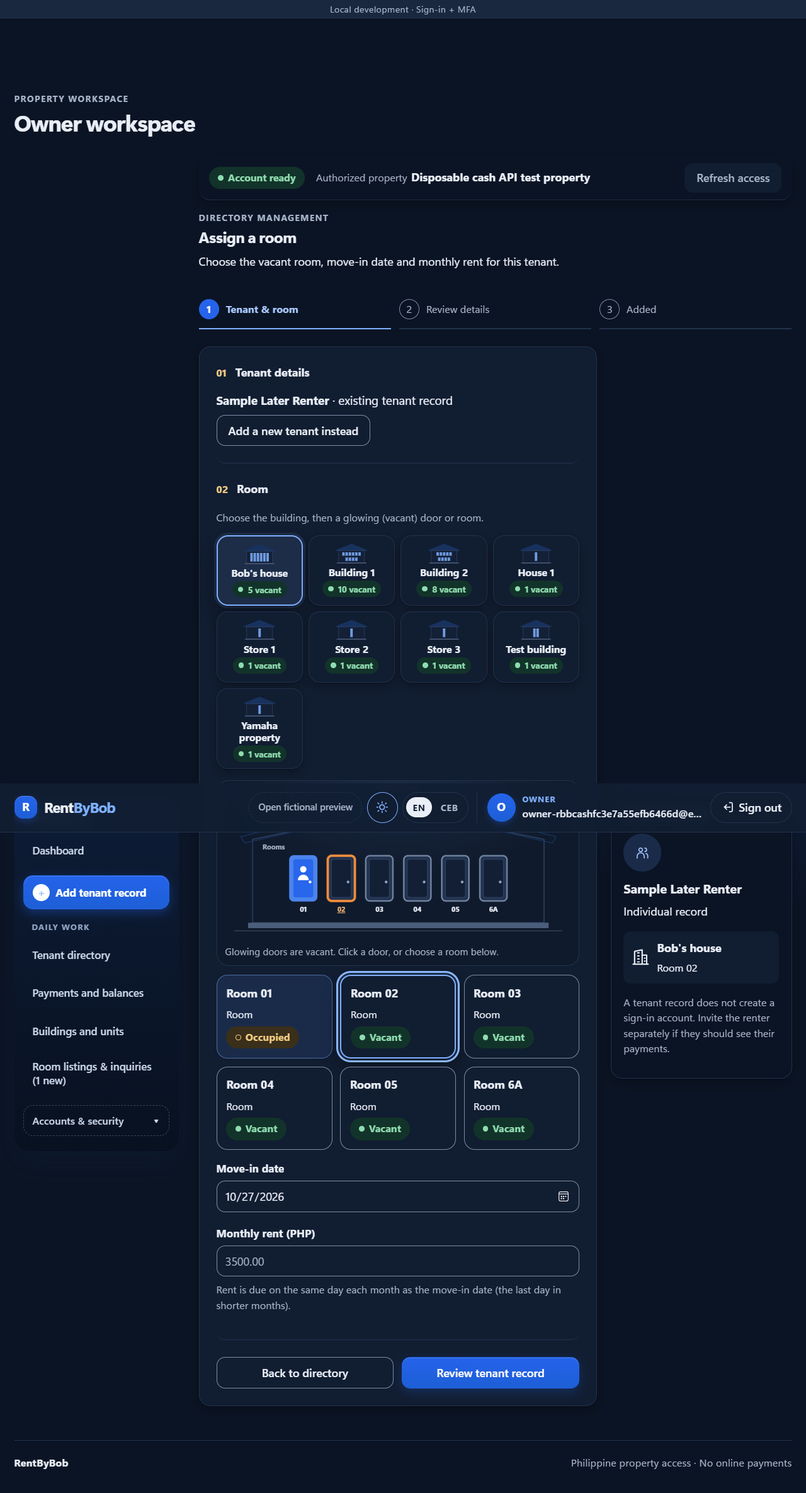
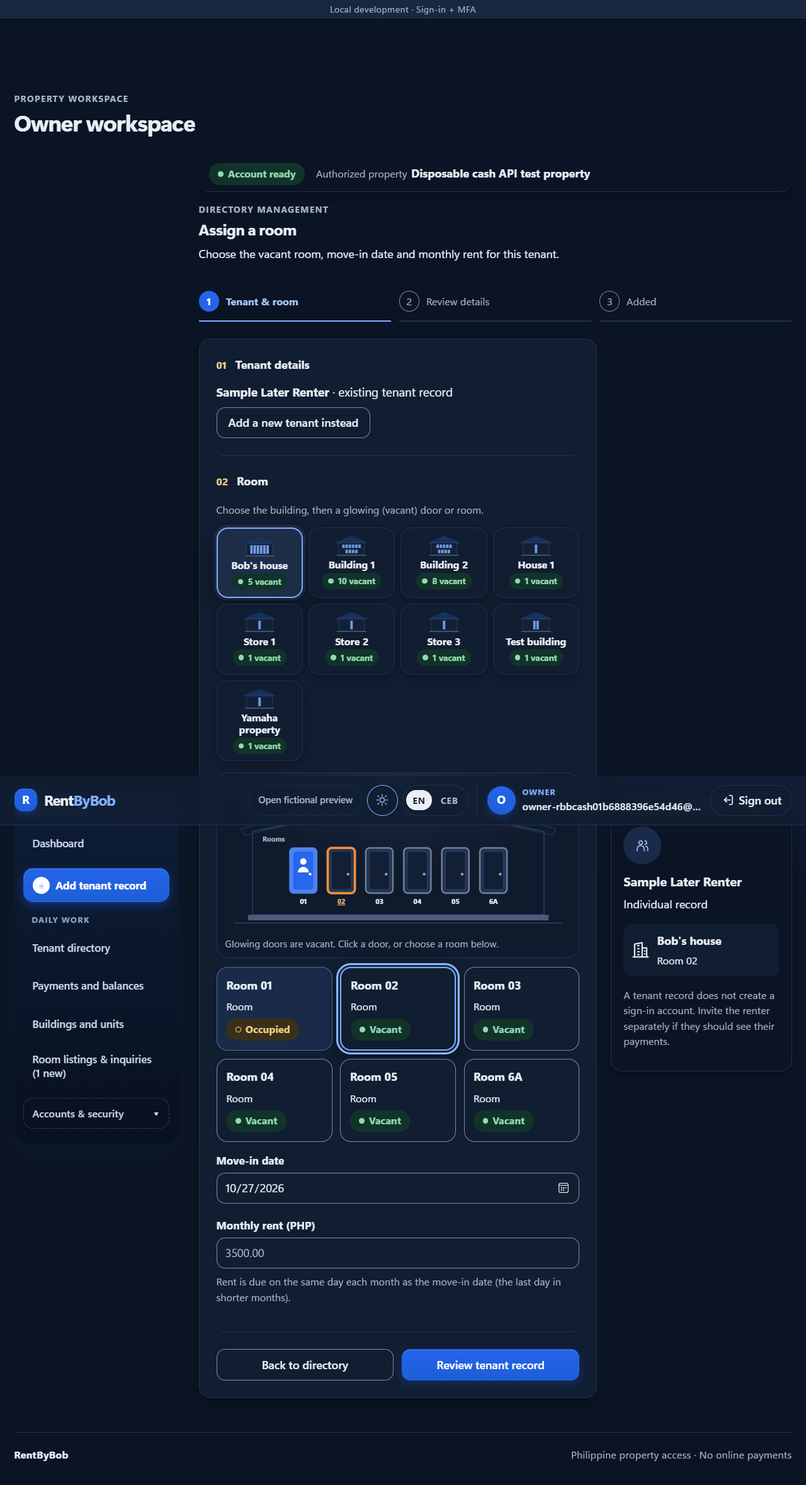
Polish: auto-refreshing Payments, compact room listings, cleaner PDF, verifier by email, plain wording

diff --git a/src/access/SavedPayments.tsx b/src/access/SavedPayments.tsx
@@ -39,6 +39,7 @@ export function SavedPayments({ propertyId, propertyName, tenants, owner, userId
  const request = useRef<{key:string;id:string}|null>(null), sending = useRef(false)
  const [autoRent,setAutoRent] = useState<boolean|null>(null)
  const [newAgreementTenant,setNewAgreementTenant] = useState('')
+ const [verifierEmail,setVerifierEmail] = useState(''), [verifierMatch,setVerifierMatch] = useState<{id:string;email:string}|null>(null)
  // Unused advance credit per agreement (202610270010); empty when none or before the update is applied.
  const [credits,setCredits] = useState<Record<string,string>>({})
  const refresh = useCallback(async () => {
@@ -108,6 +109,8 @@ export function SavedPayments({ propertyId, propertyName, tenants, owner, userId
  },[data])
  // Reload whenever Payments is opened, so tenants and rooms added elsewhere appear without pressing Refresh.
  useEffect(()=>{ if(active) void refresh() },[active,refresh])
+ // While open, reload every 30 seconds so confirmations by other staff appear (unsaved entries are kept).
+ useEffect(()=>{ if(!active) return; const timer=window.setInterval(()=>{ if(!sending.current) void refresh() },30000); return ()=>window.clearInterval(timer) },[active,refresh])
  useEffect(()=>{ if(entry||draft||review) stepHeading.current?.focus() },[entry===null,draft===null,review===null])
 
  const agreement=data?.agreements.find(a=>a.id===selected)
@@ -136,7 +139,7 @@ export function SavedPayments({ propertyId, propertyName, tenants, owner, userId
  const confirmCard=review&&<section className="card cash-confirmation-review" aria-labelledby="cash-confirm-heading"><h3 id="cash-confirm-heading" ref={stepHeading} tabIndex={-1}>{tr('Confirm cash received?','Kumpirmaha ang nadawat nga kwarta?')}</h3><p><strong>{decimalPesos(review.amount)}</strong> {tr('received by','gidawat ni')} {review.collector} {tr('on','niadtong')} {dateText(review.received_on)}.</p><p>{tr('Confirm only after checking that the cash was received. It will cover the oldest unpaid rent first and issue a permanent acknowledgment.','Kumpirmaha lang human masusi nga nadawat ang kwarta. Ibutang kini una sa pinakadaan nga wala mabayring abang ug maghimo og permanenteng resibo.')}</p><div className="person-actions"><Button disabled={busy} className="primary" onClick={async()=>{const result=await mutate('confirm_rent_cash',{p_cash_id:review.id},false);if(result){setReview(null);setMessage(tr('Cash confirmed. The balance is updated.','Nakumpirma ang kwarta. Na-update ang balanse.'));setReceipt(result as CashAcknowledgmentData)}}}>{tr('Confirm and issue acknowledgment','Kumpirmaha ug paghimo og resibo')}</Button><Button disabled={busy} onClick={()=>setReview(null)}>{tr('Cancel','Kansela')}</Button></div></section>
 
  return <section className="payments-preview simple-payments" aria-labelledby="payments-heading">
- <div className="section-heading"><div><p className="eyebrow">{tr('RENT RECORDS','REKORD SA ABANG')}</p><h2 id="payments-heading">{t.paymentRecords}</h2><p>{tr('Find a tenant, record cash, then confirm it.','Pangitaa ang nag-abang, irekord ang kwarta, unya kumpirmaha.')}</p></div><Button className="secondary-button" disabled={busy} onClick={()=>void refresh()}>{tr('Refresh','I-refresh')}</Button></div>
+ <div className="section-heading"><div><p className="eyebrow">{tr('RENT RECORDS','REKORD SA ABANG')}</p><h2 id="payments-heading">{t.paymentRecords}</h2><p>{tr('Find a tenant, record cash, then confirm it.','Pangitaa ang nag-abang, irekord ang kwarta, unya kumpirmaha.')}</p></div></div>
  {error&&<p className="notice notice--error" role="alert">{error}</p>}{message&&<p className="notice" role="status">{message}</p>}
  {!data&&!error&&<LoadingSkeleton label={tr('Loading saved records…','Gikarga ang mga rekord…')} rows={4} />}
  {data&&<>
@@ -213,7 +216,7 @@ export function SavedPayments({ propertyId, propertyName, tenants, owner, userId
  </div>
  <section className="card room-rent-setup-card account-panel" role="tabpanel" id="account-panel-setup" aria-labelledby="account-tab-setup" hidden={accountTab!=='setup'}>
   <div className="current-room-rent"><div><span>{tr('Monthly room rent','Binulan nga abang sa kwarto')}</span><strong>{decimalPesos(agreement.rent)}</strong></div><p>{tr('Moved in','Misulod')} {dateText(agreement.move_in)}. {tr('Rent is due on that day each month (the last day in shorter months).','Bayran ang abang niana nga adlaw matag bulan (kataposang adlaw sa mubo nga bulan).')}</p></div>
-  <p className="field-help">{tr('The move-in date and rent are fixed once saved. Changing a saved rent is not available yet; it needs an owner rule for which month the new rent starts.','Dili na mausab ang petsa sa pagsulod ug abang kon na-save na. Dili pa mahimo ang pag-usab sa abang; kinahanglan og lagda sa tag-iya kon unsang bulana magsugod.')}</p>
+  <p className="field-help">{tr('The move-in date and monthly rent stay as agreed. Changing the rent amount is not available in the app yet.','Ang petsa sa pagsulod ug binulan nga abang magpabilin sumala sa kasabutan. Dili pa mausab ang kantidad sa abang sa app.')}</p>
   {!agreement.ended_on&&<details className="card change-room"><summary>{tr('Change room (still renting)','Usba ang kwarto (nag-abang gihapon)')}</summary><p>{tr('Moves this tenant to another vacant room from the date you choose. The same account, monthly rent, due day and balance continue; the room history is kept.','Ibalhin kini nga nag-abang sa laing bakante nga kwarto sugod sa petsa nga imong pilion. Pareho gihapon ang account, binulan nga abang, adlaw sa bayranan ug balanse; gitipigan ang kasaysayan sa kwarto.')}</p><form className="rent-setup" onSubmit={e=>{e.preventDefault();const f=new FormData(e.currentTarget);void mutate('change_agreement_room',{p_agreement_id:agreement.id,p_unit_id:String(f.get('unit')),p_effective:String(f.get('date')),p_reason:String(f.get('reason')).trim()}).then(saved=>{if(saved)setMessage(tr('Room changed. Rent and balance continue on the same account.','Nausab ang kwarto. Padayon ang abang ug balanse sa parehas nga account.'))})}}><label htmlFor="change-room-unit">{tr('New room','Bag-ong kwarto')}</label><select id="change-room-unit" name="unit" required><option value="">{tr('Choose a vacant room','Pagpili og bakante nga kwarto')}</option>{data.units.filter(u=>u.id!==agreement.unit_id&&!data.agreements.some(a=>a.unit_id===u.id&&(!a.ended_on||a.ended_on>=today))).map(u=><option key={u.id} value={u.id}>{data.buildings.find(b=>b.id===u.building_id)?.label} / {u.label}</option>)}</select><label htmlFor="change-room-date">{tr('Moved on','Petsa sa pagbalhin')}</label><input id="change-room-date" name="date" type="date" defaultValue={today} min={agreement.move_in} max={today} required /><label htmlFor="change-room-reason">{tr('Reason (required)','Rason (kinahanglan)')}</label><input id="change-room-reason" name="reason" required maxLength={500} pattern=".*\S.*" placeholder={tr('Example: moved to a bigger room','Pananglitan: nibalhin sa mas dako nga kwarto')} /><Button disabled={busy} className="primary">{tr('Save room change','I-save ang pagbalhin og kwarto')}</Button></form></details>}
   {!agreement.ended_on&&owner&&<details className="card move-out"><summary>{tr('Record move-out','Irekord ang pagbalhin')}</summary><p>{tr('Full months only: the move-out month is charged in full and no rent is added after it. Unpaid rent stays owed. The room becomes free for a new agreement starting the day after.','Tibuok bulan lamang: bayran sa tibuok ang bulan sa pagbalhin ug walay abang nga madugang human niini. Utang gihapon ang wala mabayri. Mahimong bag-ong kasabotan ang kwarto sugod sa sunod nga adlaw.')}</p><form className="rent-setup" onSubmit={e=>{e.preventDefault();const f=new FormData(e.currentTarget);void mutate('end_rental_agreement',{p_agreement_id:agreement.id,p_end_date:String(f.get('end')),p_reason:String(f.get('reason')).trim()})}}><label htmlFor="move-out-date">{tr('Move-out date','Petsa sa pagbalhin')}</label><input id="move-out-date" name="end" type="date" min={agreement.move_in} required /><label htmlFor="move-out-reason">{tr('Reason (required)','Rason (kinahanglan)')}</label><input id="move-out-reason" name="reason" required maxLength={500} pattern=".*\S.*" /><Button disabled={busy} className="primary">{tr('Save move-out','I-save ang pagbalhin')}</Button></form></details>}
  </section>
@@ -255,10 +258,16 @@ export function SavedPayments({ propertyId, propertyName, tenants, owner, userId
    <li><span className={data.charges.length?'readiness-state readiness-state--ready':'readiness-state'}>{data.charges.length?`${data.charges.length} ${tr('saved','na-save')}`:tr('Needs setup','Kinahanglan i-set up')}</span><div><strong>{tr('Monthly rent charges','Mga bayranan sa abang matag bulan')}</strong><p>{data.charges.length?tr('Only saved charges appear in rent balances.','Ang mga bayranan nga na-save lang ang makita sa balanse sa abang.'):tr('No charges are saved; no rent is assumed or generated automatically.','Walay bayranan nga na-save; walay abang nga gihunahuna o awtomatikong gihimo.')}</p></div></li>
    <li><span className="readiness-state">{pendingCash.length+confirmedCount} {tr('records','ka rekord')}</span><div><strong>{tr('Cash status','Kahimtang sa kwarta')}</strong><p>{pendingCash.length} {tr('awaiting confirmation','naghulat og kumpirmasyon')} · {confirmedCount} {tr('confirmed','nakumpirma')}</p></div></li>
   </ul>
-  {!verifierAssigned&&<p className="field-help">{tr('Before assigning a verifier, the owner must independently confirm the existing clerk account ID and confirmed email. Do not guess from a display name.','Sa dili pa mo-assign og tigkumpirma, kumpirmahon una sa tag-iya ang account ID ug kumpirmadong email sa clerk. Ayaw pagtag-an base sa display name.')}</p>}
+  {!verifierAssigned&&<p className="field-help">{tr('Before assigning a verifier, confirm the clerk’s email with them in person. Do not guess from a display name.','Sa dili pa mo-assign og tigkumpirma, kumpirmaha una ang email sa clerk diha kaniya. Ayaw pagtag-an base sa display name.')}</p>}
  </section>
  <details className="card create-agreement"><summary>{tr('Give an existing tenant a room','Hatagi og kwarto ang naa nang nag-abang')}</summary><p>{tr('For tenants already in the directory. New tenants get their room in Add tenant. One responsible tenant per room; the move-in day sets monthly due dates.','Para sa mga naa na sa lista. Ang bag-ong nag-abang makakuha og kwarto sa Idugang ang nag-abang. Usa ka responsable matag kwarto; ang adlaw sa pagsulod maoy basihan sa petsa sa bayranan.')}</p><form className="rent-setup" onSubmit={e=>{e.preventDefault();const f=new FormData(e.currentTarget);if(!String(f.get('tenant'))){setError(tr('Choose the responsible tenant first.','Pilia una ang responsableng nag-abang.'));return};void mutate('create_rental_agreement',{p_tenant_id:String(f.get('tenant')),p_unit_id:String(f.get('unit')),p_move_in:String(f.get('start')),p_rent:String(f.get('rent'))})}}><TenantPicker label={tr('Responsible tenant','Responsableng nag-abang')} name="tenant" tenants={tenants.filter(t=>!t.archived_at&&!t.removed_at&&!data.agreements.some(a=>a.tenant_id===t.id&&(!a.ended_on||a.ended_on>=today)))} value={newAgreementTenant} onChange={setNewAgreementTenant} language={language} /><label htmlFor="agreement-unit">{tr('Room','Kwarto')}</label><select id="agreement-unit" name="unit" required><option value="">{tr('Choose room','Pagpili og kwarto')}</option>{data.units.filter(u=>!data.agreements.some(a=>a.unit_id===u.id&&!a.ended_on)).map(u=><option key={u.id} value={u.id}>{data.buildings.find(b=>b.id===u.building_id)?.label} / {u.label}</option>)}</select><label htmlFor="agreement-start">{tr('Move-in date','Petsa sa pagsulod')}</label><input id="agreement-start" name="start" type="date" required /><label htmlFor="agreement-rent">{tr('Monthly room rent (PHP)','Abang sa kwarto matag bulan (PHP)')}</label><input id="agreement-rent" name="rent" inputMode="decimal" pattern="[0-9]+([.][0-9]{1,2})?" required /><Button disabled={busy}>{tr('Save agreement','I-save ang kasabotan')}</Button></form></details>
- {owner&&<details ref={verifierSetup} className="card"><summary>{tr('Designate an existing clerk as cash verifier','Pagpili og clerk nga mahimong tigkumpirma sa kwarta')}</summary><p>{tr('Select the approved clerk account by its account ID and exact confirmed email. Verify both through trusted account management first. This does not create an account or send email.','Pilia ang giuyonan nga account sa clerk pinaagi sa account ID ug eksaktong kumpirmadong email. Susiha una kini pinaagi sa kasaligan nga pagdumala sa account. Dili kini mohimo og account o mopadala og email.')}</p><form className="rent-setup" onSubmit={e=>{e.preventDefault();const f=new FormData(e.currentTarget);void mutate('assign_cash_verifier',{p_user_id:String(f.get('id')),p_email:String(f.get('email'))},false)}}><label htmlFor="verifier-id">{tr('Existing clerk account ID','Account ID sa clerk')}</label><input id="verifier-id" name="id" required /><label htmlFor="verifier-email">{tr('Confirmed email','Kumpirmadong email')}</label><input id="verifier-email" name="email" type="email" required /><Button disabled={busy}>{tr('Assign cash verifier','I-assign ang tigkumpirma sa kwarta')}</Button></form></details>}
+ {owner&&<details ref={verifierSetup} className="card verifier-setup"><summary>{tr('Designate an existing clerk as cash verifier','Pagpili og clerk nga mahimong tigkumpirma sa kwarta')}</summary><p>{tr('Type the clerk\'s email (confirm it with them first). The app finds their account; check it is the right person, then assign. This does not create an account or send email.','Isulat ang email sa clerk (kumpirmaha una kaniya). Pangitaon sa app ang ilang account; susiha nga husto ang tawo, dayon i-assign. Dili kini mohimo og account o mopadala og email.')}</p>
+  <form className="rent-setup" onSubmit={async e=>{e.preventDefault();setVerifierMatch(null);setError('');const {data:found,error:findError}=await supabase!.rpc('find_account_for_assignment',{p_property_id:propertyId,p_email:verifierEmail.trim()});if(findError){setError(tr('The account could not be looked up. Owner access with the authenticator is required.','Wala makita ang account. Kinahanglan ang access sa tag-iya uban ang authenticator.'));return}const match=found as {id:string;email:string;accepted:boolean;staff_role:string|null}|null;if(!match){setError(tr('No account has this exact email. Check the spelling or invite the clerk first.','Walay account nga ingon ani nga email. Susiha ang spelling o dapita una ang clerk.'));return}if(match.staff_role!=='clerk'||!match.accepted){setError(tr('This account is not an active clerk yet. Give it Clerk access in Accounts & security first.','Dili pa aktibo nga clerk kini nga account. Hatagi una og Clerk nga access sa Account ug kaluwasan.'));return}setVerifierMatch({id:match.id,email:match.email})}}>
+   <label htmlFor="verifier-email">{tr('Clerk\'s email','Email sa clerk')}</label><input id="verifier-email" type="email" required value={verifierEmail} onChange={e=>{setVerifierEmail(e.target.value);setVerifierMatch(null)}} />
+   <Button className="secondary-button" disabled={busy}>{tr('Find clerk','Pangitaa ang clerk')}</Button>
+  </form>
+  {verifierMatch&&<div className="notice" role="status"><p><strong>{verifierMatch.email}</strong> · {tr('active clerk account','aktibo nga clerk')}</p><Button className="primary" disabled={busy} onClick={async()=>{const done=await mutate('assign_cash_verifier',{p_user_id:verifierMatch.id,p_email:verifierMatch.email},false);if(done!==false){setVerifierMatch(null);setMessage(tr('Cash verifier assigned. This clerk can now confirm cash.','Na-assign ang tigkumpirma. Makakumpirma na kini nga clerk sa kwarta.'))}}}>{tr('Assign as cash verifier','I-assign isip tigkumpirma')}</Button></div>}
+ </details>}
  <details className="card term-help"><summary>{t.simpleWords}</summary><p>{t.simpleWordsHelp}</p>
   <dl className="term-help-list">
    <div><dt>{tr('Balance','Balanse')}</dt><dd>{tr('Rent recorded here that has not been paid yet.','Pila pa sa gi-record nga abang ang wala mabayri.')}</dd></div>

diff --git a/src/access/RoomListingsManager.tsx b/src/access/RoomListingsManager.tsx
@@ -1,6 +1,7 @@
 import { useCallback, useEffect, useState } from 'react'
 import { Button, LoadingSkeleton } from '../components/atoms'
 import { supabase } from './client'
+import { decimalPesos } from './CashAcknowledgment'
 import { text, type Language } from '../i18n'
 
 type Listing = { unit_id: string; asking_rent: string | null; description: string; listed_at: string; hidden?: boolean; publicly_available: boolean }
@@ -47,7 +48,7 @@ export function RoomListingsManager({ propertyId, owner = false, language = 'en'
     setBusy(true); setMessage(null)
     const { error } = await supabase!.rpc(name, { p_property_id: propertyId, ...args })
     setBusy(false)
-    if (error) { setMessage({ text: error.code === '42501' ? tr('Your staff session needs the authenticator code again.', 'Kinahanglan na usab ang authenticator code sa imong staff session.') : tr('Not saved. Check the rent (a positive amount) and keep the description under 300 characters.', 'Wala na-save. Susiha ang abang (positibo nga kantidad) ug ipamubo ang deskripsyon ubos sa 300 ka letra.'), error: true }); return }
+    if (error) { setMessage({ text: error.code === '42501' ? tr('Your staff session needs the authenticator code again.', 'Kinahanglan na usab ang authenticator code sa imong staff session.') : tr('Not saved. Check the rent (a positive amount) and keep the description under 300 characters.', 'Wala na-save. Susiha ang abang (positibo nga kantidad) ug ipamubo ang deskripsyon ubos sa 300 ka letra.'), error: true }); await load(); return }
     setMessage({ text: success, error: false }); await load()
   }
 
@@ -84,17 +85,22 @@ export function RoomListingsManager({ propertyId, owner = false, language = 'en'
             : listing?.hidden ? [tr('Hidden by staff', 'Gitago sa staff'), '']
             : room.publicly_available ? [listing ? tr('Shown on the public page', 'Makita sa publiko') : tr('Shown automatically', 'Awtomatikong makita'), 'status--ready']
             : [tr('Not listed', 'Wala nalista'), '']
+          const saved = (listed: boolean) => listed ? tr(`${unit.label} will be shown on the public page whenever it is vacant.`, `Makita ang ${unit.label} sa publiko kon bakante.`) : tr(`${unit.label} is hidden from the public page.`, `Natago ang ${unit.label} sa publiko.`)
+          // Compact row: status and an instant show/hide switch; price and description are tucked into "details".
           return <li key={unit.id} className="listing-row">
-            <form onSubmit={e => { e.preventDefault(); const f = new FormData(e.currentTarget); const listed = f.get('listed') === 'on'; const rent = String(f.get('rent') ?? '').trim()
-              void run('set_room_listing', { p_unit_id: unit.id, p_listed: listed, p_asking_rent: listed && rent ? rent : null, p_description: listed ? String(f.get('description') ?? '') : null }, listed ? tr(`${unit.label} will be shown on the public page whenever it is vacant.`, `Makita ang ${unit.label} sa publiko kon bakante.`) : tr(`${unit.label} is hidden from the public page.`, `Natago ang ${unit.label} sa publiko.`)) }}>
-              <div className="listing-row__head"><strong>{unit.label}</strong><span className={`status ${tone}`}>{status}</span></div>
-              <label className="listing-toggle"><input type="checkbox" name="listed" defaultChecked={wanted} key={`${unit.id}:${wanted}`} /> {tr('Show on public page when vacant', 'Ipakita sa publiko kon bakante')}</label>
-              <div className="listing-fields">
-                <div><label htmlFor={`rent-${unit.id}`}>{tr('Monthly rent (PHP, optional)', 'Binulan nga abang (PHP, opsyonal)')}</label><input id={`rent-${unit.id}`} name="rent" inputMode="decimal" pattern="[0-9]+([.][0-9]{1,2})?" defaultValue={listing?.asking_rent ?? ''} placeholder={tr('Empty = "Ask for the price"', 'Walay sulod = "Pangutana sa presyo"')} /></div>
-                <div><label htmlFor={`description-${unit.id}`}>{tr('Short description', 'Mubo nga deskripsyon')}</label><input id={`description-${unit.id}`} name="description" maxLength={300} defaultValue={listing?.description ?? ''} placeholder={tr('e.g. Second floor, good for 2 persons', 'pananglitan: Ikaduhang andana, para sa 2 ka tawo')} /></div>
-              </div>
-              <Button className="primary" disabled={busy}>{tr('Save', 'I-save')}</Button>
-            </form>
+            <div className="listing-row__head"><strong>{unit.label}</strong><span className={`status ${tone}`}>{status}</span></div>
+            <label className="listing-toggle"><input type="checkbox" checked={wanted} disabled={busy} onChange={event => { const listed = event.target.checked; setListings(previous => [...previous.filter(item => item.unit_id !== unit.id), { unit_id: unit.id, asking_rent: listing?.asking_rent ?? null, description: listing?.description ?? '', listed_at: listing?.listed_at ?? new Date().toISOString(), hidden: !listed, publicly_available: listing?.publicly_available ?? false }]); void run('set_room_listing', { p_unit_id: unit.id, p_listed: event.target.checked, p_asking_rent: event.target.checked ? listing?.asking_rent ?? null : null, p_description: event.target.checked ? listing?.description ?? '' : null }, saved(listed)) }} /> {tr('Show on public page when vacant', 'Ipakita sa publiko kon bakante')}</label>
+            {wanted && <details className="listing-edit"><summary>{listing?.asking_rent ? `${decimalPesos(listing.asking_rent)} ${tr('per month', 'matag bulan')}${listing.description ? ` · ${listing.description}` : ''} · ${tr('edit', 'usba')}` : tr('Add price and description', 'Idugang ang presyo ug deskripsyon')}</summary>
+              <form onSubmit={e => { e.preventDefault(); const f = new FormData(e.currentTarget); const rent = String(f.get('rent') ?? '').trim()
+                void run('set_room_listing', { p_unit_id: unit.id, p_listed: true, p_asking_rent: rent || null, p_description: String(f.get('description') ?? '') }, saved(true)) }}>
+                <div className="listing-fields">
+                  <div><label htmlFor={`rent-${unit.id}`}>{tr('Monthly rent (PHP)', 'Binulan nga abang (PHP)')}</label><input id={`rent-${unit.id}`} name="rent" inputMode="decimal" pattern="[0-9]+([.][0-9]{1,2})?" defaultValue={listing?.asking_rent ?? ''} placeholder={tr('Ask for the price', 'Pangutana sa presyo')} /></div>
+                  <div><label htmlFor={`description-${unit.id}`}>{tr('Short description', 'Mubo nga deskripsyon')}</label><input id={`description-${unit.id}`} name="description" maxLength={300} defaultValue={listing?.description ?? ''} placeholder={tr('e.g. Second floor, good for 2 persons', 'pananglitan: Ikaduhang andana, para sa 2 ka tawo')} /></div>
+                </div>
+                <p className="field-help">{tr('Leave the rent empty to show "Ask for the price".', 'Biyai nga walay sulod ang abang aron makita ang "Pangutana sa presyo".')}</p>
+                <Button className="primary" disabled={busy}>{tr('Save', 'I-save')}</Button>
+              </form>
+            </details>}
           </li>
         })}</ul>
       </>}

diff --git a/src/access/PaidRentDocument.tsx b/src/access/PaidRentDocument.tsx
@@ -44,7 +44,7 @@ export function PaidRentDocument({ data, language = 'en' }: { data: PaidRentDocu
       <p className="doc-note">{tr('Cash confirmed by the designated verifier, by the date it was received. Pending cash and uncleared checks are not included.', 'Kwarta nga gikumpirma sa tigkumpirma, sumala sa petsa nga nadawat. Dili apil ang pending nga kwarta ug tseke nga wala pa ma-clear.')}</p>
       {data.confirmed.length ? <table className="doc-table">
         <thead><tr><th>{tr('Renter', 'Nag-abang')}</th><th>{tr('Rental space', 'Lugar')}</th><th>{tr('Received', 'Nadawat')}</th><th>{tr('Rent months', 'Mga bulan')}</th><th>{tr('Receipt no.', 'Resibo')}</th><th className="doc-money">{tr('Amount', 'Kantidad')}</th></tr></thead>
-        <tbody>{data.confirmed.map(row => <tr key={row.id}><td>{row.renter}</td><td>{row.space}</td><td>{row.received}</td><td>{row.months}</td><td className="doc-code">{row.receipt}</td><td className="doc-money">{row.amount}</td></tr>)}</tbody>
+        <tbody>{data.confirmed.map(row => <tr key={row.id}><td>{row.renter}</td><td>{row.space}</td><td className="doc-date">{row.received}</td><td>{row.months}</td><td className="doc-code">{row.receipt}</td><td className="doc-money">{row.amount}</td></tr>)}</tbody>
         <tfoot><tr><th colSpan={5}>{tr('Total confirmed cash received', 'Kinatibuk-ang kumpirmadong kwarta')}</th><td className="doc-money">{data.summary.confirmedTotal}</td></tr></tfoot>
       </table> : <p className="doc-empty">{tr('No confirmed payments were received in this month.', 'Walay kumpirmadong bayad nga nadawat niining bulana.')}</p>}
     </section>
@@ -54,7 +54,7 @@ export function PaidRentDocument({ data, language = 'en' }: { data: PaidRentDocu
       <p className="doc-note">{tr('Recorded rent charges for the rent month that still have a balance. A month without a recorded charge is not listed and is not treated as unpaid.', 'Narekord nga bayranan sa bulan nga naa pay balanse. Ang bulan nga walay narekord nga bayranan dili ilista ug dili isipon nga wala mabayri.')}</p>
       {data.outstanding.length ? <table className="doc-table">
         <thead><tr><th>{tr('Renter', 'Nag-abang')}</th><th>{tr('Rental space', 'Lugar')}</th><th>{tr('Due date', 'Takdang petsa')}</th><th className="doc-money">{tr('Rent charged', 'Gisingil')}</th><th className="doc-money">{tr('Still due', 'Nabilin')}</th></tr></thead>
-        <tbody>{data.outstanding.map(row => <tr key={row.id}><td>{row.renter}</td><td>{row.space}</td><td>{row.due}</td><td className="doc-money">{row.charged}</td><td className="doc-money">{row.remaining}</td></tr>)}</tbody>
+        <tbody>{data.outstanding.map(row => <tr key={row.id}><td>{row.renter}</td><td>{row.space}</td><td className="doc-date">{row.due}</td><td className="doc-money">{row.charged}</td><td className="doc-money">{row.remaining}</td></tr>)}</tbody>
         <tfoot><tr><th colSpan={4}>{tr('Total still due', 'Kinatibuk-ang nabilin')}</th><td className="doc-money">{data.summary.outstandingTotal}</td></tr></tfoot>
       </table> : <p className="doc-empty">{tr('No recorded rent is still due for this month.', 'Walay narekord nga abang nga nabilin niining bulana.')}</p>}
     </section>

diff --git a/src/styles.css b/src/styles.css
@@ -1490,3 +1490,18 @@ button.room-tile { width: 100%; font: inherit; color: var(--text); text-align: l
 .tenant-picker-chosen { border-color: var(--brand); background: var(--brand-tint); }
 .tenant-picker-chosen .button { flex: 0 0 auto; margin: 0; }
 .tenant-picker-avatar { display: inline-grid; flex: 0 0 auto; width: 2.1rem; height: 2.1rem; place-items: center; border-radius: 50%; background: var(--surface-muted, var(--page)); color: var(--brand-hover, var(--brand)); font-weight: 750; }
+
+/* Worklist beside the account: text on top, full-width "Open account" below (no word-by-word wrapping). */
+.payment-record-view--with-worklist .payment-overview .cash-row { flex-direction: column; align-items: stretch; gap: .6rem; }
+.payment-record-view--with-worklist .payment-overview .cash-row > .button { width: 100%; }
+.payment-overview .worklist-row p { margin: .15rem 0 0; }
+
+/* Room listings: compact rows (two per line on wide screens), instant show/hide, details folded away. */
+.listing-rows { display: grid; grid-template-columns: repeat(auto-fill, minmax(min(100%, 22rem), 1fr)); gap: .6rem; }
+.room-listings .listing-row { display: grid; align-content: start; gap: .45rem; margin: 0; padding: .85rem 1rem; }
+.room-listings .listing-row .listing-toggle { margin: 0; }
+.listing-edit summary { display: flex; align-items: center; min-height: 2.75rem; color: var(--brand); font-weight: 600; cursor: pointer; overflow-wrap: anywhere; }
+.listing-edit[open] summary { margin-bottom: .4rem; }
+@media print { html.print-paid-report, html.print-paid-report body { background: #fff !important; background-image: none !important; } }
+.doc-date { white-space: nowrap; }
+.doc-code { overflow-wrap: anywhere; }

diff --git a/src/App.tsx b/src/App.tsx
@@ -395,7 +395,6 @@ export function App() {
                                   setBackup(false)
                                 }}>{snapshot.properties.map(property => <option key={property.id} value={property.id}>{property.name}</option>)}</select>
                               </div> : <p className="toolbar-property"><span>{t.property}</span> <strong>{snapshot.properties.find(property => property.id === propertyId)?.name}</strong></p>}
-                              <Button className="quiet-button refresh-access" onClick={() => { setSnapshot(null); void refresh() }}>{translate('Refresh access', 'I-refresh ang access')}</Button>
                             </div>
                             <section hidden={activeSection !== 'home'} tabIndex={-1} id="dashboard-home" className="dashboard-home" aria-labelledby="dashboard-welcome-heading">
                               <div className="dashboard-welcome">

diff --git a/docs/ROADMAP.md b/docs/ROADMAP.md
@@ -23,7 +23,7 @@ Use [STATUS.md](STATUS.md) for verification evidence and [DECISIONS.md](DECISION
 
 Development can continue without these, but each blocks the item it names:
 
-1. **Apply migrations locally:** run `npx.cmd supabase db push --local` to apply `202610270004` (one-step add tenant), `202610270005` (archive guard) and `202610270006` (default privileges), then restart the local stack for the stricter Auth settings; earlier ones are applied (the assistant does not change the preserved database). This blocks real local use of checks, handovers, the renter view, dashboard figures, reversals and move-out.
+1. **Apply migrations locally:** stop the app, run `npx.cmd supabase db push --local` (applies 202610270004–0010: one-step add tenant, archive guard, default privileges, remembered devices, automatic listings, automatic rent/room change/remove, advance credit), then `npx.cmd supabase stop` and `npx.cmd supabase start` for the stricter sign-in settings. Turn on automatic rent and automatic listing only after every current tenant, room and rent is entered.
 2. **Clerk identity:** confirm James's exact existing account before he is assigned as cash verifier. This blocks the first real saved cash confirmation.
 3. **Real rent terms:** review the actual tenant, room and rent terms before the first saved agreement or charge.
 4. **Returned checks:** decide whether and how renters are told about a returned check. Currently it is omitted from the renter view.
